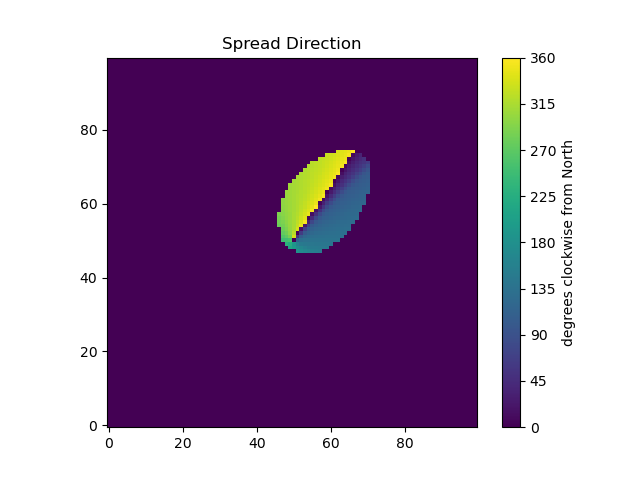
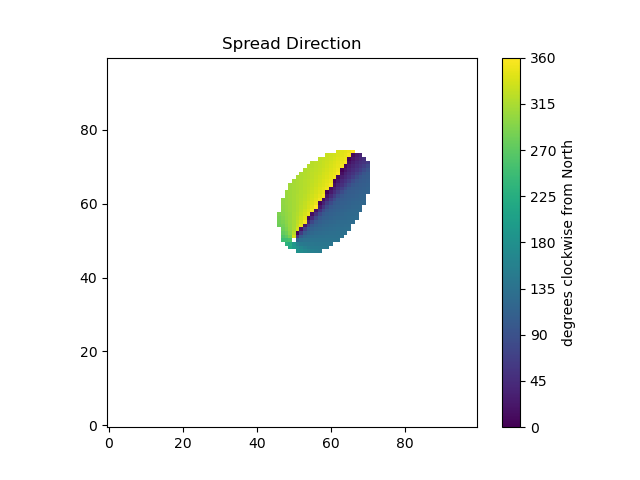
Updated spread_direction_matrix to return np.nan outside of the burn scar

diff --git a/docs/index.html b/docs/index.html
@@ -8284,7 +8284,7 @@ surface fire behavior is returned.
 
     <span class="org-variable-name">fire_type_matrix</span>          : ndarray         <span class="org-operator">=</span> np.zeros(grid_shape, dtype<span class="org-operator">=</span><span class="org-string">"uint8"</span>)
     <span class="org-variable-name">spread_rate_matrix</span>        : ndarray         <span class="org-operator">=</span> np.zeros(grid_shape, dtype<span class="org-operator">=</span><span class="org-string">"float32"</span>)
-    <span class="org-variable-name">spread_direction_matrix</span>   : ndarray         <span class="org-operator">=</span> np.zeros(grid_shape, dtype<span class="org-operator">=</span><span class="org-string">"float32"</span>)
+    <span class="org-variable-name">spread_direction_matrix</span>   : ndarray         <span class="org-operator">=</span> np.full(grid_shape, np.nan, dtype<span class="org-operator">=</span><span class="org-string">"float32"</span>)
     <span class="org-variable-name">fireline_intensity_matrix</span> : ndarray         <span class="org-operator">=</span> np.zeros(grid_shape, dtype<span class="org-operator">=</span><span class="org-string">"float32"</span>)
     <span class="org-variable-name">flame_length_matrix</span>       : ndarray         <span class="org-operator">=</span> np.zeros(grid_shape, dtype<span class="org-operator">=</span><span class="org-string">"float32"</span>)
     <span class="org-variable-name">fire_type_memview</span>         : cy.uchar[:,::1] <span class="org-operator">=</span> fire_type_matrix
@@ -8632,7 +8632,7 @@ azimuth direction is returned.
 
     <span class="org-variable-name">fire_type_matrix</span>          : ndarray         <span class="org-operator">=</span> np.zeros(grid_shape, dtype<span class="org-operator">=</span><span class="org-string">"uint8"</span>)
     <span class="org-variable-name">spread_rate_matrix</span>        : ndarray         <span class="org-operator">=</span> np.zeros(grid_shape, dtype<span class="org-operator">=</span><span class="org-string">"float32"</span>)
-    <span class="org-variable-name">spread_direction_matrix</span>   : ndarray         <span class="org-operator">=</span> np.zeros(grid_shape, dtype<span class="org-operator">=</span><span class="org-string">"float32"</span>)
+    <span class="org-variable-name">spread_direction_matrix</span>   : ndarray         <span class="org-operator">=</span> np.full(grid_shape, np.nan, dtype<span class="org-operator">=</span><span class="org-string">"float32"</span>)
     <span class="org-variable-name">fireline_intensity_matrix</span> : ndarray         <span class="org-operator">=</span> np.zeros(grid_shape, dtype<span class="org-operator">=</span><span class="org-string">"float32"</span>)
     <span class="org-variable-name">flame_length_matrix</span>       : ndarray         <span class="org-operator">=</span> np.zeros(grid_shape, dtype<span class="org-operator">=</span><span class="org-string">"float32"</span>)
     <span class="org-variable-name">fire_type_memview</span>         : cy.uchar[:,::1] <span class="org-operator">=</span> fire_type_matrix
@@ -10185,8 +10185,7 @@ is returned.
         <span class="org-keyword">self</span>.<span class="org-variable-name">phi_star</span>           <span class="org-operator">=</span> np.ones((grid_rows <span class="org-operator">+</span> 4, grid_cols <span class="org-operator">+</span> 4), dtype<span class="org-operator">=</span><span class="org-string">"float32"</span>)
         <span class="org-keyword">self</span>.<span class="org-variable-name">fire_type</span>          <span class="org-operator">=</span> np.zeros(grid_shape, dtype<span class="org-operator">=</span><span class="org-string">"uint8"</span>)
         <span class="org-keyword">self</span>.<span class="org-variable-name">spread_rate</span>        <span class="org-operator">=</span> np.zeros(grid_shape, dtype<span class="org-operator">=</span><span class="org-string">"float32"</span>)
-        <span class="org-keyword">self</span>.<span class="org-variable-name">spread_direction</span>   <span class="org-operator">=</span> np.zeros(grid_shape, dtype<span class="org-operator">=</span><span class="org-string">"float32"</span>)
-        <span class="org-comment-delimiter"># </span><span class="org-comment">self.spread_direction   = np.full(grid_shape, np.nan, dtype="float32") ; FIXME: switch from 0 to np.nan</span>
+        <span class="org-keyword">self</span>.<span class="org-variable-name">spread_direction</span>   <span class="org-operator">=</span> np.full(grid_shape, np.nan, dtype<span class="org-operator">=</span><span class="org-string">"float32"</span>)
         <span class="org-keyword">self</span>.<span class="org-variable-name">fireline_intensity</span> <span class="org-operator">=</span> np.zeros(grid_shape, dtype<span class="org-operator">=</span><span class="org-string">"float32"</span>)
         <span class="org-keyword">self</span>.<span class="org-variable-name">flame_length</span>       <span class="org-operator">=</span> np.zeros(grid_shape, dtype<span class="org-operator">=</span><span class="org-string">"float32"</span>)
         <span class="org-keyword">self</span>.<span class="org-variable-name">time_of_arrival</span>    <span class="org-operator">=</span> np.full(grid_shape, np.nan, dtype<span class="org-operator">=</span><span class="org-string">"float32"</span>)

diff --git a/src/pyretechnics/burn_cells.py b/src/pyretechnics/burn_cells.py
@@ -319,7 +319,7 @@ def burn_all_cells_as_head_fire(space_time_cubes      : dict[str, ISpaceTimeCube
 
     fire_type_matrix          : ndarray         = np.zeros(grid_shape, dtype="uint8")
     spread_rate_matrix        : ndarray         = np.zeros(grid_shape, dtype="float32")
-    spread_direction_matrix   : ndarray         = np.zeros(grid_shape, dtype="float32")
+    spread_direction_matrix   : ndarray         = np.full(grid_shape, np.nan, dtype="float32")
     fireline_intensity_matrix : ndarray         = np.zeros(grid_shape, dtype="float32")
     flame_length_matrix       : ndarray         = np.zeros(grid_shape, dtype="float32")
     fire_type_memview         : cy.uchar[:,::1] = fire_type_matrix
@@ -643,7 +643,7 @@ def burn_all_cells_toward_azimuth(space_time_cubes      : dict[str, ISpaceTimeCu
 
     fire_type_matrix          : ndarray         = np.zeros(grid_shape, dtype="uint8")
     spread_rate_matrix        : ndarray         = np.zeros(grid_shape, dtype="float32")
-    spread_direction_matrix   : ndarray         = np.zeros(grid_shape, dtype="float32")
+    spread_direction_matrix   : ndarray         = np.full(grid_shape, np.nan, dtype="float32")
     fireline_intensity_matrix : ndarray         = np.zeros(grid_shape, dtype="float32")
     flame_length_matrix       : ndarray         = np.zeros(grid_shape, dtype="float32")
     fire_type_memview         : cy.uchar[:,::1] = fire_type_matrix

diff --git a/src/pyretechnics/eulerian_level_set.py b/src/pyretechnics/eulerian_level_set.py
@@ -622,8 +622,7 @@ class SpreadState:
         self.phi_star           = np.ones((grid_rows + 4, grid_cols + 4), dtype="float32")
         self.fire_type          = np.zeros(grid_shape, dtype="uint8")
         self.spread_rate        = np.zeros(grid_shape, dtype="float32")
-        self.spread_direction   = np.zeros(grid_shape, dtype="float32")
-        # self.spread_direction   = np.full(grid_shape, np.nan, dtype="float32") ; FIXME: switch from 0 to np.nan
+        self.spread_direction   = np.full(grid_shape, np.nan, dtype="float32")
         self.fireline_intensity = np.zeros(grid_shape, dtype="float32")
         self.flame_length       = np.zeros(grid_shape, dtype="float32")
         self.time_of_arrival    = np.full(grid_shape, np.nan, dtype="float32")
